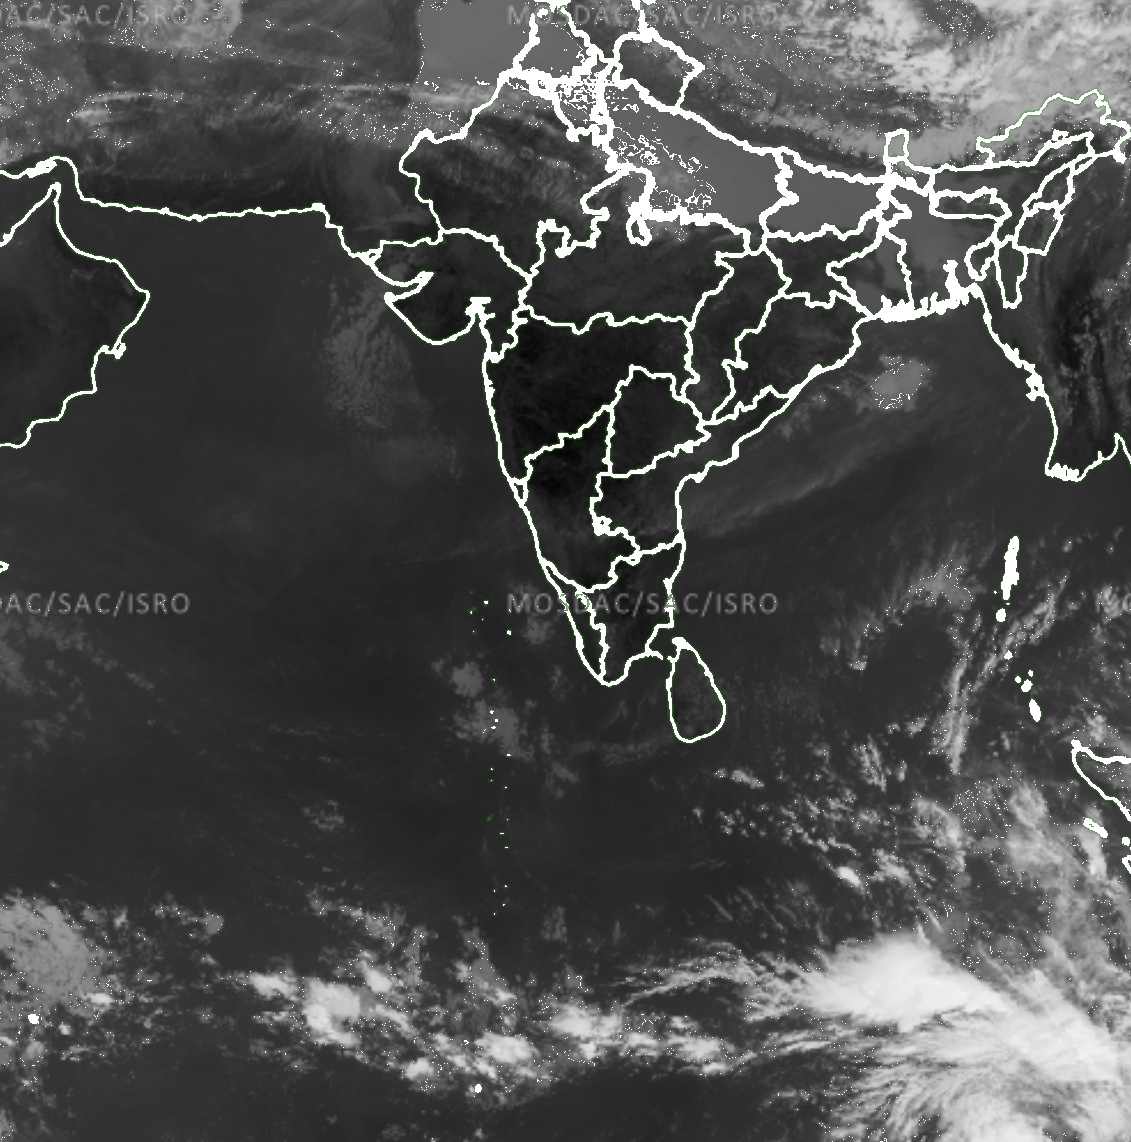
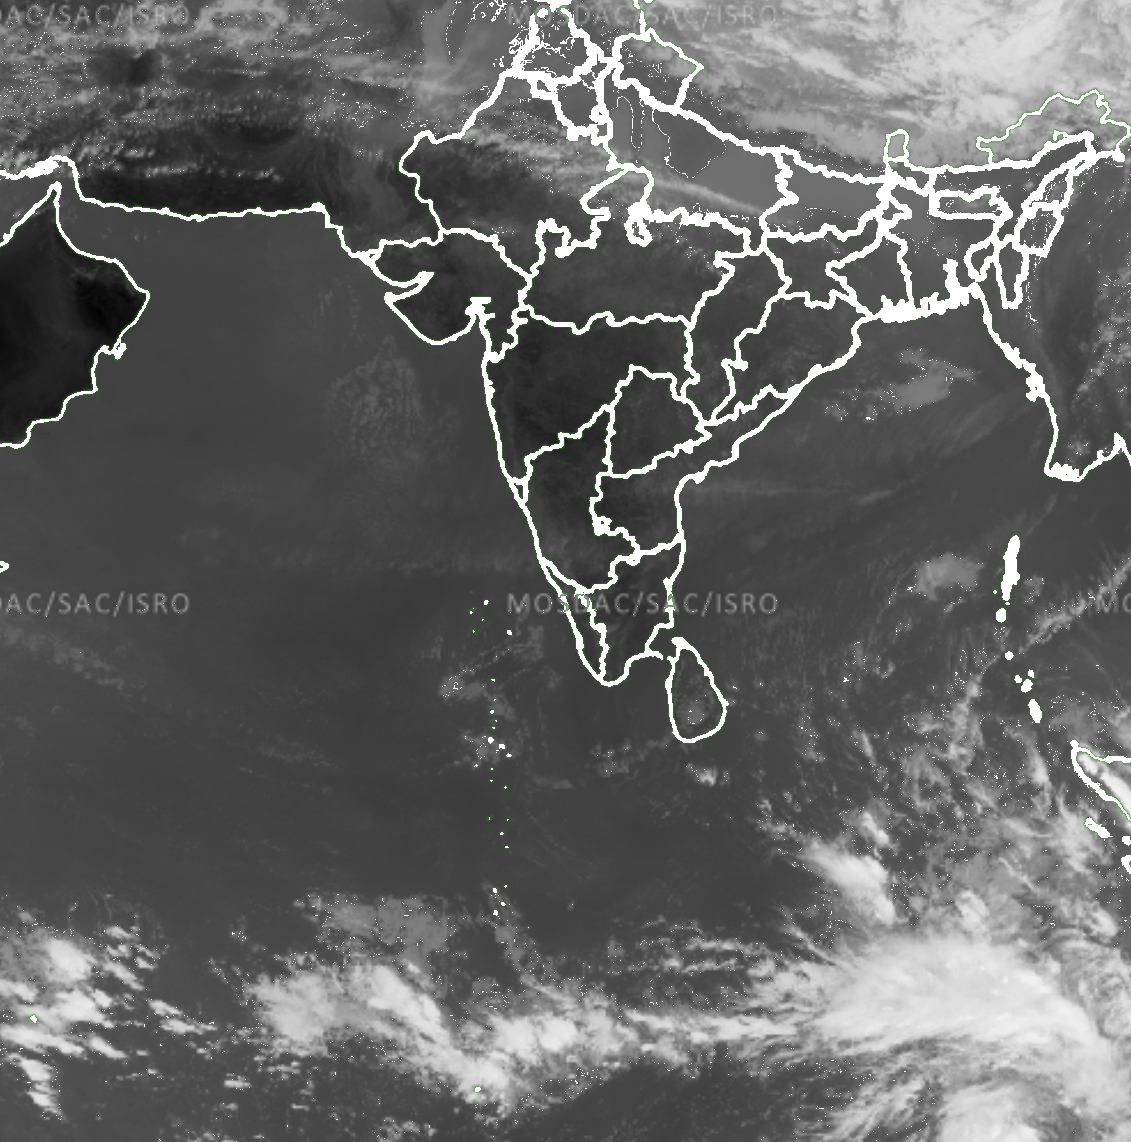
Grid Stuff

diff --git a/scrape.py b/scrape.py
@@ -6,8 +6,7 @@ from selenium.webdriver import ActionChains
 import numpy as np
 import cv2
 
-while True:
-
+while True: 
     driver = webdriver.Chrome()
     driver.get("https://www.google.com/")
     driver.get('https://mosdac.gov.in/live/index_one.php?url_name=india')
@@ -21,6 +20,17 @@ while True:
     input_element.send_keys(Keys.ARROW_RIGHT * 100)
     button = driver.find_element(By.XPATH, '//*[@id="side_btn"]/table/tbody/tr/td[1]/button')
     button.click()
+
+    # Uncomment for Grid Based Feed
+
+    # element = driver.find_element(By.ID, "bottom_menu_btn2")
+    # driver.execute_script("arguments[0].style.display = 'block';", element)
+
+    # graticule = driver.find_element(By.XPATH, '//*[@id="graticule"]')
+    # graticule.click()
+    # driver.execute_script("arguments[0].style.display = 'none';", element)
+    # time.sleep(5)
+
     full_screen = driver.find_element(By.XPATH, '//*[@id="map"]/div/div[2]/div[7]/button')
     full_screen.click()
 
@@ -35,6 +45,14 @@ while True:
     new_color = np.array([255, 255, 255]) 
     img[mask != 0] = new_color
 
+    # Uncomment for Grid Based Feed Image Processing
+
+    # lower_boundary = np.array([50 - 50, 126 - 100, 226 - 100]) 
+    # upper_boundary = np.array([50 + 50, 126 + 100, 226 + 100]) 
+    # mask = cv2.inRange(img, lower_boundary, upper_boundary)
+    # new_color = np.array([255, 255, 255]) 
+    # img[mask != 0] = new_color
+
     height, width = img.shape[:2]
     top = int(height / 3)
     left = int(width * (7/28))
@@ -43,7 +61,6 @@ while True:
 
     img_cropped = img[top:bottom, left:right]
     cv2.imwrite('screenshot.png', img_cropped)
-
+    print("Done")
     time.sleep(30 * 60)
-
 
